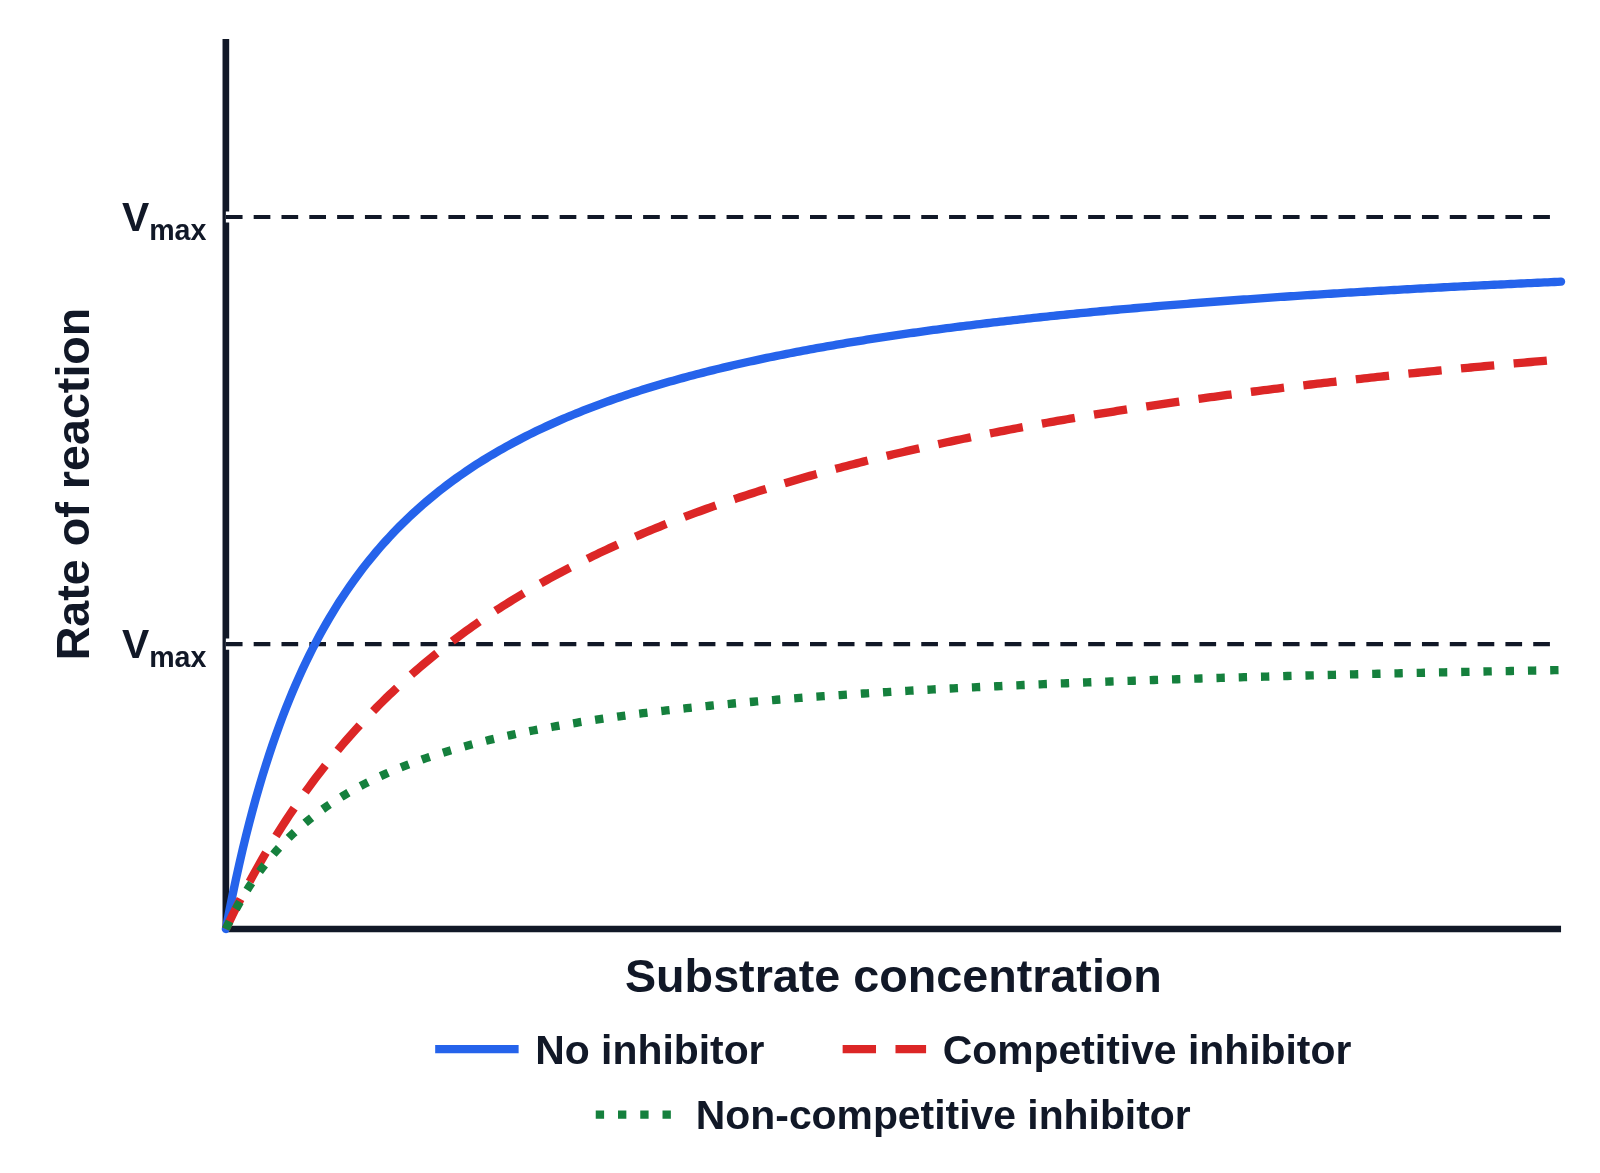
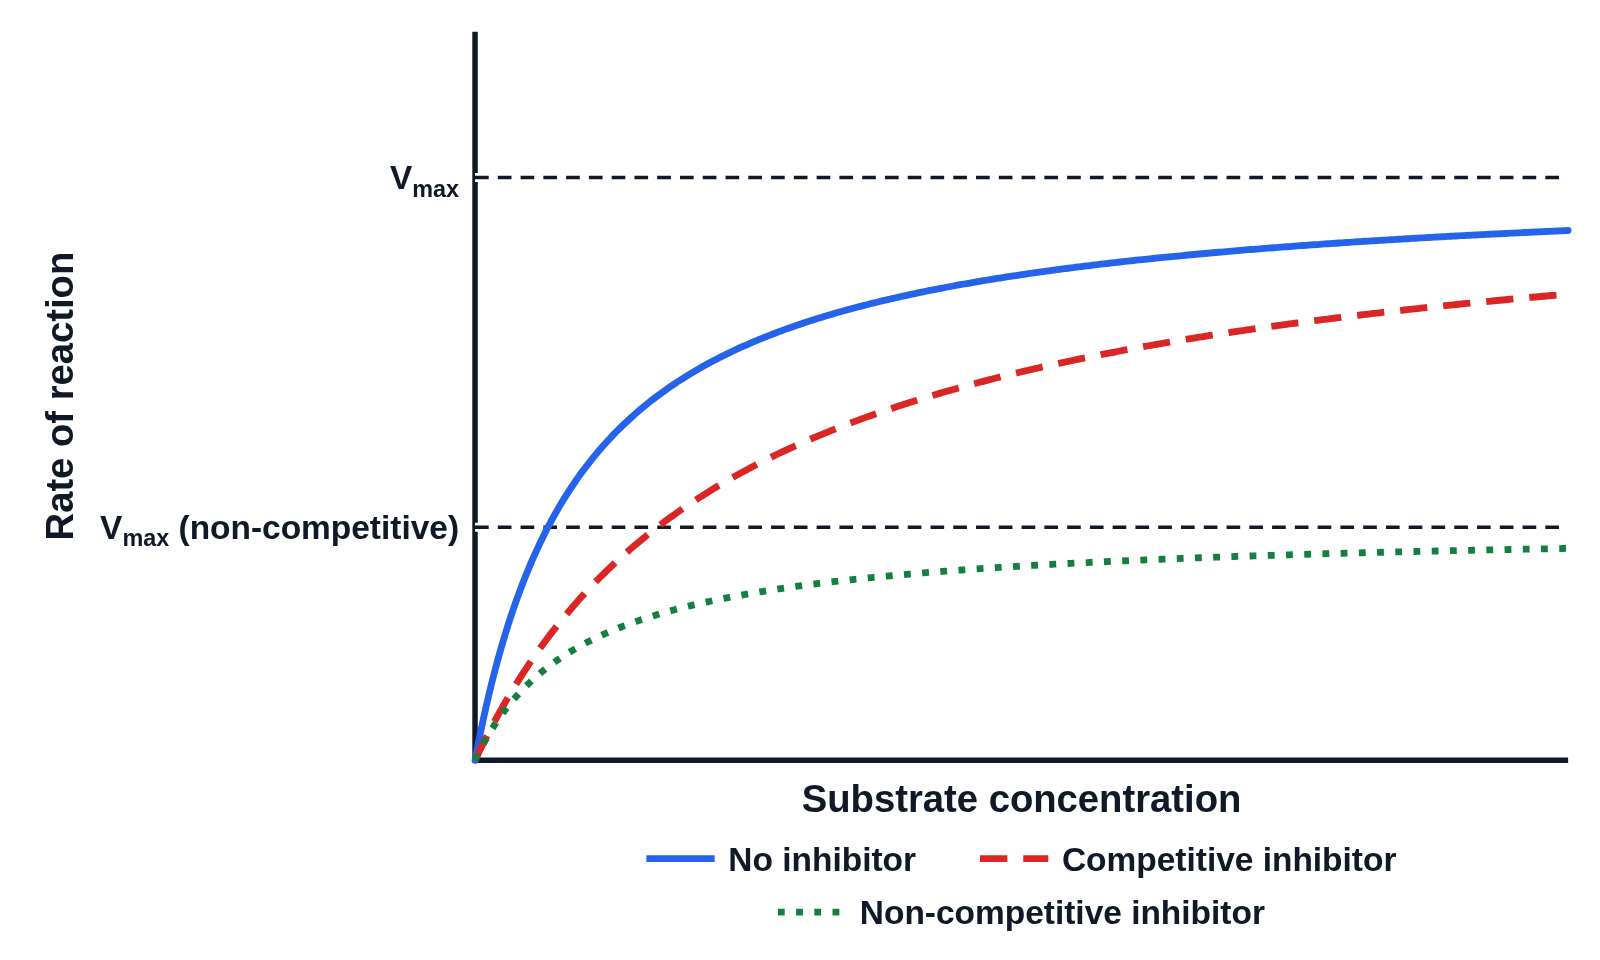
Biology Figures: Enzyme Activity: Vmax and Km named per curve
With more than one Vmax, ½Vmax or Km on the graph, each label names its
curve after the words, "Vmax (non-competitive)" or "Km (competitive)", from
the inhibitor or the name typed for the key; the enzyme's own, shared with
the curve with no inhibitor, stays plain. One curve's labels are unchanged,
and blank lines stay blank. Km labels that would run together go on a row
further down, each still centered under its line, and the left margin fits
the longest label at the y-axis. The inhibitor example's picture and words,
and the About copy, say so.

diff --git a/apps/biology/src/lib/generators/enzyme-activity/figure.ts b/apps/biology/src/lib/generators/enzyme-activity/figure.ts
@@ -4,8 +4,8 @@
 // apart by their dashes and a key under the graph. Marked on them: each
 // optimum and where the enzyme has denatured, or Vmax, ½Vmax and Km, with
 // dashed lines to the axes. Vmax, ½Vmax and Km are written at the axes,
-// where the numbers would be; the other labels go wherever on the graph
-// they touch nothing.
+// where the numbers would be, each named for its curve when there's more
+// than one; the other labels go wherever on the graph they touch nothing.
 
 import { readAxes, type GridSettings } from '$shared/graph/axes'
 import { COLORS } from '$shared/graph/colors'
@@ -29,6 +29,8 @@ const INSET = 4 // how far inside the grid's border labels stay
 const DOT_R = 5
 const BLANK_W = 70 // a write-on line for a label left blank
 const SIDE_BLANK_W = 40 // the same, at an axis
+/** How far apart rows of labels under the x-axis are. */
+const X_ROW = (fs: number) => fs * 1.35
 const SAMPLE_W = 30 // the line sample in front of a curve's name in the key
 const KEY_GAP = 28 // between the key's entries
 /** Each curve's dashes, so they read apart in black and white: solid, dashed, dotted. */
@@ -154,6 +156,49 @@ export function readoutOf(s: EnzymeSettings) {
   })
 }
 
+const SHORT = { competitive: 'competitive', noncompetitive: 'non-competitive' }
+
+/** A curve's name after a mark of its own: the name typed for it, or its inhibitor's. */
+function shortName(s: EnzymeSettings, i: CurveIndex) {
+  const c = curveOf(s, i)
+  return c.name.trim() || (c.inhibitor === 'none' ? 'no inhibitor' : SHORT[c.inhibitor])
+}
+
+/** The curves drawn against substrate concentration, grouped by `key`: those sharing a Vmax, say. */
+function groupsOf(curves: CurveIndex[], key: (i: CurveIndex) => number) {
+  const groups: { at: number; curves: CurveIndex[] }[] = []
+  for (const i of curves) {
+    const v = key(i)
+    const g = groups.find((g) => Math.abs(g.at - v) < 1e-6)
+    if (g) g.curves.push(i)
+    else groups.push({ at: v, curves: [i] })
+  }
+  return groups
+}
+
+/**
+ * The marks against substrate concentration: each Vmax, ½Vmax and Km once,
+ * with the curves it belongs to and what its label adds to the words: when
+ * there's more than one of a kind, the curve's name, "Vmax (competitive)",
+ * except for the enzyme's own, shared with the curve with no inhibitor.
+ */
+export function substrateMarksOf(s: EnzymeSettings) {
+  const drawn = s.graph === 'substrate' ? drawnOf(s) : []
+  const k = (i: CurveIndex) => kineticsOf(s, i)
+  const named = <G extends { curves: CurveIndex[] }>(groups: G[]) =>
+    groups.map((g) => {
+      const own = groups.length < 2 || g.curves.some((i) => curveOf(s, i).inhibitor === 'none')
+      const names = [...new Set(g.curves.map((i) => shortName(s, i)))]
+      return { ...g, suffix: own ? '' : ` (${names.join(' and ')})` }
+    })
+  const onAxis = drawn.filter((i) => k(i).km <= SUBSTRATE_END)
+  return {
+    vmax: named(groupsOf(drawn, (i) => k(i).vmax)),
+    half: named(groupsOf(onAxis, (i) => k(i).vmax / 2)),
+    km: named(groupsOf(onAxis, (i) => k(i).km)),
+  }
+}
+
 export function buildEnzyme(s: EnzymeSettings) {
   const graph = s.graph
   const range = rangeOf(s)
@@ -183,7 +228,14 @@ export function buildEnzyme(s: EnzymeSettings) {
   const halfAt = substrate && s.markKm && shown(s.halfLabelMode, s.halfLabel)
   const kmAt = substrate && s.markKm && shown(s.kmLabelMode, s.kmLabel)
   const sideWidth = (mode: Mode, words: string) => (mode === 'blank' ? SIDE_BLANK_W : runsWidth(runsOf(text(mode, words), LABEL_FS), LABEL_FS))
-  const yMarksW = Math.max(vmaxAt ? sideWidth(s.vmaxLabelMode, s.vmaxLabel) : 0, halfAt ? sideWidth(s.halfLabelMode, s.halfLabel) : 0)
+  const marks = substrateMarksOf(s)
+  /** A mark's words with its curve's name after them; a blank line stays blank. */
+  const wordsOf = (mode: Mode, words: string, suffix: string) => (mode === 'text' && words.trim() ? words.trim() + suffix : words)
+  const yMarksW = Math.max(
+    0,
+    ...(vmaxAt ? marks.vmax.map((m) => sideWidth(s.vmaxLabelMode, wordsOf(s.vmaxLabelMode, s.vmaxLabel, m.suffix))) : []),
+    ...(halfAt ? marks.half.map((m) => sideWidth(s.halfLabelMode, wordsOf(s.halfLabelMode, s.halfLabel, m.suffix))) : []),
+  )
   const title = s.titleMode === 'text' ? s.title.trim() : ''
   const xTitle = s.xTitleMode === 'text' ? s.xTitle.trim() : ''
   const yTitle = s.yTitleMode === 'text' ? s.yTitle.trim() : ''
@@ -261,27 +313,28 @@ export function buildEnzyme(s: EnzymeSettings) {
     }
     for (const p of once(denatured, sameX)) dot(p)
   } else if (drawn.length) {
-    const ks = drawn.map((i) => kineticsOf(s, i))
     if (s.markVmax) {
-      for (const k of once(ks, (a, b) => Math.abs(a.vmax - b.vmax) < 1e-6)) {
-        const y = px(toGrid(0, k.vmax)).y
+      for (const m of marks.vmax) {
+        const y = px(toGrid(0, m.at)).y
         lines.push({ x1: area.x, y1: y, x2: area.x + area.w, y2: y })
         place.line([{ x: area.x, y }, { x: area.x + area.w, y }], true)
-        sideY.push({ y, mode: s.vmaxLabelMode, words: s.vmaxLabel })
+        sideY.push({ y, mode: s.vmaxLabelMode, words: wordsOf(s.vmaxLabelMode, s.vmaxLabel, m.suffix) })
       }
     }
     if (s.markKm) {
-      const halves = once(ks.filter((k) => inRange(k.km)).map((k) => px(toGrid(k.km, k.vmax / 2))), (a, b) => sameX(a, b) && sameY(a, b))
+      const halves = once(marks.km.flatMap((m) => m.curves.map((i) => px(toGrid(m.at, kineticsOf(s, i).vmax / 2)))), (a, b) => sameX(a, b) && sameY(a, b))
       // One line across to each height and down from each Km, to the furthest dot on it.
-      for (const p of once(halves, sameY)) {
-        const far = Math.max(...halves.filter((q) => sameY(q, p)).map((q) => q.x))
-        guide({ x1: area.x, y1: p.y, x2: far, y2: p.y })
-        sideY.push({ y: p.y, mode: s.halfLabelMode, words: s.halfLabel })
+      for (const m of marks.half) {
+        const y = px(toGrid(0, m.at)).y
+        const far = Math.max(...halves.filter((q) => near(q.y, y)).map((q) => q.x))
+        guide({ x1: area.x, y1: y, x2: far, y2: y })
+        sideY.push({ y, mode: s.halfLabelMode, words: wordsOf(s.halfLabelMode, s.halfLabel, m.suffix) })
       }
-      for (const p of once(halves, sameX)) {
-        const high = Math.min(...halves.filter((q) => sameX(q, p)).map((q) => q.y))
-        guide({ x1: p.x, y1: high, x2: p.x, y2: axisY })
-        sideX.push({ x: p.x, mode: s.kmLabelMode, words: s.kmLabel })
+      for (const m of marks.km) {
+        const x = px(toGrid(m.at, 0)).x
+        const high = Math.min(...halves.filter((q) => near(q.x, x)).map((q) => q.y))
+        guide({ x1: x, y1: high, x2: x, y2: axisY })
+        sideX.push({ x, mode: s.kmLabelMode, words: wordsOf(s.kmLabelMode, s.kmLabel, m.suffix) })
       }
       for (const p of halves) dot(p)
     }
@@ -326,8 +379,17 @@ export function buildEnzyme(s: EnzymeSettings) {
   }
   const ys = spread(sideY.filter((l) => shown(l.mode, l.words)).map((l) => ({ ...l, at: l.y, half: LABEL_FS * 0.6 })), 3)
   for (const l of ys) sideLabel(area.x - 7, l.at + LABEL_FS * 0.35, 'end', l.mode, l.words)
-  const xs = spread(sideX.filter((l) => shown(l.mode, l.words)).map((l) => ({ ...l, at: l.x, half: sideWidth(l.mode, l.words) / 2 })), 8)
-  for (const l of xs) sideLabel(l.at, axisY + LABEL_FS + 5, 'middle', l.mode, l.words)
+  // Under the x-axis each stays centered under its line, on a row further
+  // down when it would run into one already there.
+  const xRows: { x0: number; x1: number }[][] = []
+  for (const l of [...sideX].filter((l) => shown(l.mode, l.words)).sort((a, b) => a.x - b.x)) {
+    const half = sideWidth(l.mode, l.words) / 2
+    const span = { x0: l.x - half - 4, x1: l.x + half + 4 }
+    let row = xRows.findIndex((r) => r.every((b) => span.x0 >= b.x1 || span.x1 <= b.x0))
+    if (row < 0) row = xRows.push([]) - 1
+    xRows[row].push(span)
+    sideLabel(l.x, axisY + LABEL_FS + 5 + row * X_ROW(LABEL_FS), 'middle', l.mode, l.words)
+  }
 
   // The titles, as the grid would place them, around the room made here.
   const gridLabels: GridLayout['labels'] = []
@@ -337,7 +399,7 @@ export function buildEnzyme(s: EnzymeSettings) {
   const titleY = PAD + fs * 1.6
   if (title) gridLabels.push({ x: midX, y: titleY, text: title, kind: 'title' })
   else if (s.titleMode === 'blank') blanks.push({ x1: midX - Math.min(130, area.w / 2), y1: titleY, x2: midX + Math.min(130, area.w / 2), y2: titleY })
-  const xMarksH = kmAt ? LABEL_FS + 8 : 0
+  const xMarksH = kmAt ? LABEL_FS + 8 + (Math.max(1, xRows.length) - 1) * X_ROW(LABEL_FS) : 0
   const xTitleY = axisY + xMarksH + fs * 1.2 + 6
   if (xTitle) gridLabels.push({ x: midX, y: xTitleY, text: xTitle, kind: 'side' })
   else if (s.xTitleMode === 'blank') blanks.push({ x1: midX - Math.min(100, area.w / 2), y1: xTitleY, x2: midX + Math.min(100, area.w / 2), y2: xTitleY })

diff --git a/apps/biology/src/lib/generators/enzyme-activity/figure.test.ts b/apps/biology/src/lib/generators/enzyme-activity/figure.test.ts
@@ -98,20 +98,55 @@ describe('an enzyme activity graph', () => {
     const axisY = g.grid.y + g.grid.h
     const [top, low] = g.lines.map((l) => axisY - l.y1)
     expect(top / low).toBeCloseTo(2.5, 6)
-    expect(g.sideLabels.map(labelText)).toEqual(['Vmax', 'Vmax'])
+    // Named for its curve, but for the enzyme's own.
+    expect(g.sideLabels.map(labelText)).toEqual(['Vmax', 'Vmax (non-competitive)'])
   })
 
   it('marks ½Vmax and Km at the axes, Km raised by a competitive inhibitor and kept by a non-competitive one', () => {
     const g = build(INHIBITORS + '&markVmax=0&markKm=1')
     // Dots at Km (1) for the enzyme and the non-competitive inhibitor, and 2.5 for the competitive one.
     const at = g.dots.map((d) => Math.round(((d.x - g.grid.x) / g.grid.w) * 10 * 100) / 100)
-    expect(at).toEqual([1, 2.5, 1])
-    expect(g.sideLabels.filter((l) => l.anchor === 'middle').map(labelText)).toEqual(['Km', 'Km'])
-    expect(g.sideLabels.filter((l) => l.anchor === 'end').map(labelText)).toEqual(['½Vmax', '½Vmax'])
+    expect(at).toEqual([1, 1, 2.5])
+    expect(g.sideLabels.filter((l) => l.anchor === 'middle').map(labelText)).toEqual(['Km', 'Km (competitive)'])
+    expect(g.sideLabels.filter((l) => l.anchor === 'end').map(labelText)).toEqual(['½Vmax', '½Vmax (non-competitive)'])
     // Km's labels sit under the x-axis, ½Vmax's left of the y-axis.
     for (const l of g.sideLabels) {
       if (l.anchor === 'middle') expect(l.y).toBeGreaterThan(g.grid.y + g.grid.h)
       else expect(l.x).toBeLessThan(g.grid.x)
+    }
+  })
+
+  it('names each Vmax, ½Vmax and Km for its curve only when there’s more than one', () => {
+    const one = build('graph=substrate&inhibitor1=competitive&markKm=1')
+    expect(one.sideLabels.map(labelText)).toEqual(['Vmax', '½Vmax', 'Km'])
+    // A competitive and a non-competitive inhibitor share nothing, so both are named.
+    const both = build('graph=substrate&inhibitor1=competitive&show3=1&markKm=1')
+    expect(both.sideLabels.map(labelText).sort()).toEqual([
+      'Km (competitive)', 'Km (non-competitive)', 'Vmax (competitive)', 'Vmax (non-competitive)',
+      '½Vmax (competitive)', '½Vmax (non-competitive)',
+    ])
+    // A name typed for the key is the one used.
+    const named = build(INHIBITORS + '&markKm=1&name3=Cyanide')
+    expect(named.sideLabels.map(labelText)).toContain('Vmax (Cyanide)')
+    // Blank lines stay blank, for students.
+    const blank = build(INHIBITORS + '&markKm=1&kmLabelMode=blank')
+    expect(blank.sideLabels.filter((l) => l.anchor === 'middle').every((l) => l.blank && !l.runs)).toBe(true)
+  })
+
+  it('keeps the named labels apart, Km’s each centered under its line, inside the figure', () => {
+    for (const query of [INHIBITORS + '&markKm=1', 'graph=substrate&inhibitor1=competitive&show3=1&markKm=1', INHIBITORS + '&markKm=1&km=0.4&strength=1.5']) {
+      const g = build(query)
+      const boxes = g.sideLabels.map((l) => boxOf(l, g.labelFs))
+      for (const [k, a] of boxes.entries()) for (const b of boxes.slice(k + 1)) expect(overlap(a, b), query).toBe(false)
+      for (const b of boxes) {
+        expect(b.x0, query).toBeGreaterThanOrEqual(0)
+        expect(b.x1, query).toBeLessThanOrEqual(g.width)
+      }
+      const downs = g.guides.filter((l) => l.x1 === l.x2).map((l) => l.x1)
+      for (const l of g.sideLabels.filter((l) => l.anchor === 'middle')) expect(downs, query).toContain(l.x)
+      // The x-axis title stays below every row of them.
+      const title = g.labels.find((l) => l.kind === 'side' && !l.rotate)!
+      for (const b of boxes) expect(b.y1, query).toBeLessThan(title.y - g.fs)
     }
   })
 

diff --git a/apps/biology/src/lib/examples/examples.ts b/apps/biology/src/lib/examples/examples.ts
@@ -295,9 +295,9 @@ export const EXAMPLES: Example[] = [
     {
       slug: 'competitive-non-competitive-inhibitor-graph-michaelis-menten',
       title: 'Competitive and non-competitive inhibitor graph (rate against substrate concentration)',
-      alt: 'Graph of rate of reaction against substrate concentration with no numbers on the axes: three curves rising and levelling off, no inhibitor (solid blue), a competitive inhibitor (dashed red) reaching the same Vmax more slowly, and a non-competitive inhibitor (dotted green) levelling off at a lower Vmax, with dashed Vmax lines labeled Vmax at the y-axis and a key under the graph',
+      alt: 'Graph of rate of reaction against substrate concentration with no numbers on the axes: three curves rising and levelling off, no inhibitor (solid blue), a competitive inhibitor (dashed red) reaching the same Vmax more slowly, and a non-competitive inhibitor (dotted green) levelling off at a lower Vmax, with dashed Vmax lines labeled Vmax and Vmax (non-competitive) at the y-axis and a key under the graph',
       caption:
-        'The rate of reaction against substrate concentration for an enzyme on its own (solid blue), with a competitive inhibitor (dashed red) and with a non-competitive inhibitor (dotted green), drawn as Michaelis–Menten curves. With a competitive inhibitor the rate climbs more slowly but reaches the same Vmax, since enough substrate outcompetes it; with a non-competitive inhibitor it levels off at a lower Vmax. Dashed lines across mark each Vmax, labeled at the y-axis.',
+        'The rate of reaction against substrate concentration for an enzyme on its own (solid blue), with a competitive inhibitor (dashed red) and with a non-competitive inhibitor (dotted green), drawn as Michaelis–Menten curves. With a competitive inhibitor the rate climbs more slowly but reaches the same Vmax, since enough substrate outcompetes it; with a non-competitive inhibitor it levels off at a lower Vmax. Dashed lines across mark each Vmax, labeled at the y-axis: the enzyme’s own, which the competitive inhibitor shares, and the non-competitive inhibitor’s.',
       settings: { graph: 'substrate', xTitle: 'Substrate concentration', show2: true, show3: true },
     },
     {

diff --git a/apps/biology/src/lib/site/generatorCopy.ts b/apps/biology/src/lib/site/generatorCopy.ts
@@ -232,7 +232,7 @@ export const COPY: Record<string, GeneratorCopy> = {
       'Rate against temperature, pH or substrate concentration',
       'Up to three curves, each one of the enzymes (human enzyme, Taq polymerase, pepsin, salivary amylase, trypsin or catalase) or an unknown enzyme with its own optimum and width, named in a key',
       'Against substrate concentration, each curve with no inhibitor, a competitive inhibitor or a non-competitive one, how soon the rate levels off (Km), and how strong the inhibitor is',
-      'The optimum and denaturation marked with dots, or Vmax, ½Vmax and Km with dashed lines to the axes, each labeled, left as a blank line for students, or unlabeled',
+      'The optimum and denaturation marked with dots, or Vmax, ½Vmax and Km with dashed lines to the axes, named for their curve when there’s more than one, each labeled, left as a blank line for students, or unlabeled',
       'Color or black and white, gridlines, arrows at the axes’ ends, the chart and axis titles (or blank lines), and label size',
     ],
     faqs: [
@@ -254,7 +254,7 @@ export const COPY: Record<string, GeneratorCopy> = {
       },
       {
         q: 'What are Vmax and Km?',
-        a: 'Vmax is the fastest rate an enzyme reaches when every active site is busy, where the curve levels off. Km, the Michaelis constant, is the substrate concentration at which the rate is half of Vmax; the lower it is, the more easily the enzyme takes up its substrate. Under Marked, Vmax gets a dashed line across, and ½Vmax and Km a dot with dashed lines to both axes, labeled at the axes.',
+        a: 'Vmax is the fastest rate an enzyme reaches when every active site is busy, where the curve levels off. Km, the Michaelis constant, is the substrate concentration at which the rate is half of Vmax; the lower it is, the more easily the enzyme takes up its substrate. Under Marked, Vmax gets a dashed line across, and ½Vmax and Km a dot with dashed lines to both axes, labeled at the axes. With an inhibitor, each label names its curve, like Vmax (non-competitive) or Km (competitive).',
       },
       {
         q: 'How do I make a worksheet where students label the graph?',
